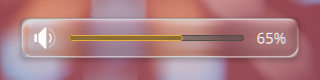
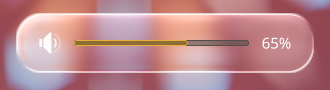
KDE: pill-shaped panels and rounded popups
Make the glass the visible shape: panels and docks render as capsules and
popups get 26px corners, while the Plasma Style's panel and popup frames
become invisible with square blur masks. Retake the screenshots.

diff --git a/kde-liquid-glass/src/liquidglass.cpp b/kde-liquid-glass/src/liquidglass.cpp
@@ -225,7 +225,8 @@ void LiquidGlassEffect::reconfigure(ReconfigureFlags)
     m_iterationCount = blurStrengthValues[blurStrength].iteration;
     m_offset = blurStrengthValues[blurStrength].offset;
     m_expandSize = blurOffsets[m_iterationCount - 1].expandSize;
-    m_cornerRadius = conf.readEntry("CornerRadius", 12.0);
+    m_cornerRadius = conf.readEntry("CornerRadius", 26.0);
+    m_pillPanels = conf.readEntry("PillPanels", true);
     const QColor tint(conf.readEntry("TintColor", QStringLiteral("#ffffff")));
     m_tint = QVector3D(tint.redF(), tint.greenF(), tint.blueF());
 
@@ -729,7 +730,10 @@ void LiquidGlassEffect::blur(const RenderTarget &renderTarget, const RenderViewp
         // popups that is the visible background, not the (larger) window.
         const RectF outputRect = viewport.renderRect();
         float cornerRadius = m_cornerRadius;
-        if (const BorderRadius radius = w->window()->borderRadius(); !radius.isNull()) {
+        if (w->isDock() && m_pillPanels) {
+            // Panels and docks are capsules; the shader clamps the radius to half the short side.
+            cornerRadius = std::min(backgroundRect.width(), backgroundRect.height()) * 0.5;
+        } else if (const BorderRadius radius = w->window()->borderRadius(); !radius.isNull()) {
             cornerRadius = radius.topLeft();
         }
 

diff --git a/kde-liquid-glass/src/liquidglass.h b/kde-liquid-glass/src/liquidglass.h
@@ -121,7 +121,8 @@ private:
         int location = -1;
     };
     std::vector<FloatParam> m_params;
-    float m_cornerRadius = 30.0;
+    float m_cornerRadius = 26.0;
+    bool m_pillPanels = true;
     QVector3D m_tint{1, 1, 1};
 
     bool m_valid = false;

diff --git a/kde-liquid-glass/README.md b/kde-liquid-glass/README.md
@@ -1,7 +1,8 @@
 # Liquid Glass for KDE Plasma 6
 
 A KWin effect that brings the liquid glass shader from the GNOME extension to Plasma,
-plus a matching Plasma Style that makes panels and popups see-through so the glass shows.
+plus a frameless Plasma Style, so the glass itself is the shape: pill-shaped panels and docks,
+and popups with 26px rounded corners.
 
 ### Demo
 
@@ -69,9 +70,12 @@ qdbus6 org.kde.KWin /KWin reconfigure
 
 You can also toggle it in *System Settings → Desktop Effects → Liquid Glass*.
 
-Then install the **Liquid Glass Plasma Style**. Breeze's panel and popup backgrounds are
-about 85% opaque and have a darker 1px outline, which hide most of the glass. This style
-is Breeze with the backgrounds and the outline at 18%, and it turns off the background-contrast pass that would darken the glass.
+Then install the **Liquid Glass Plasma Style**. Breeze draws its own panel and popup
+frames with small corners baked into its SVGs, which hide the glass. This style replaces
+those two frames with invisible ones that have square blur masks, so the only visible
+shape is the glass the effect draws: panels and docks as pills, popups with
+`CornerRadius` corners. It also turns off the background-contrast pass that would darken
+the glass.
 Everything else falls back to Breeze.
 
 ```bash
@@ -102,7 +106,8 @@ qdbus6 org.kde.KWin /KWin reconfigure
 | Key | Default | |
 |---|---|---|
 | BlurStrength | 3 | 1–15, same scale as KWin Blur |
-| CornerRadius | 12 | px; a window's own rounded corners win if it has them |
+| CornerRadius | 26 | px, for popups, notifications and OSDs; a window's own rounded corners win if it has them |
+| PillPanels | true | draw panels and docks as capsules (radius = half their thickness) |
 | TintColor | #ffffff | |
 | TintStrength | 0.04 | |
 | MaxZ | 16 | glass thickness |
